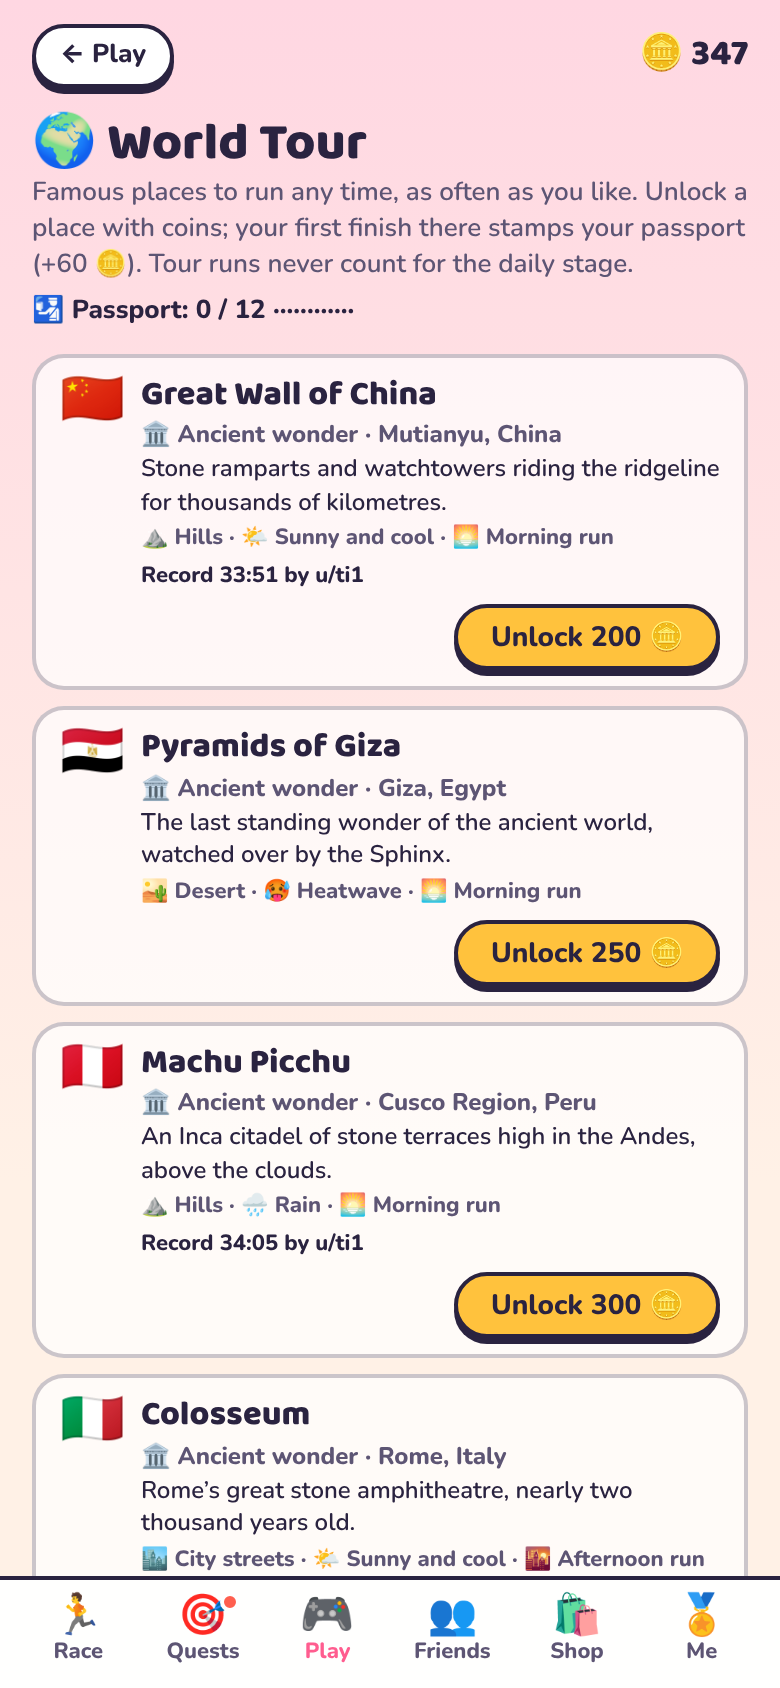
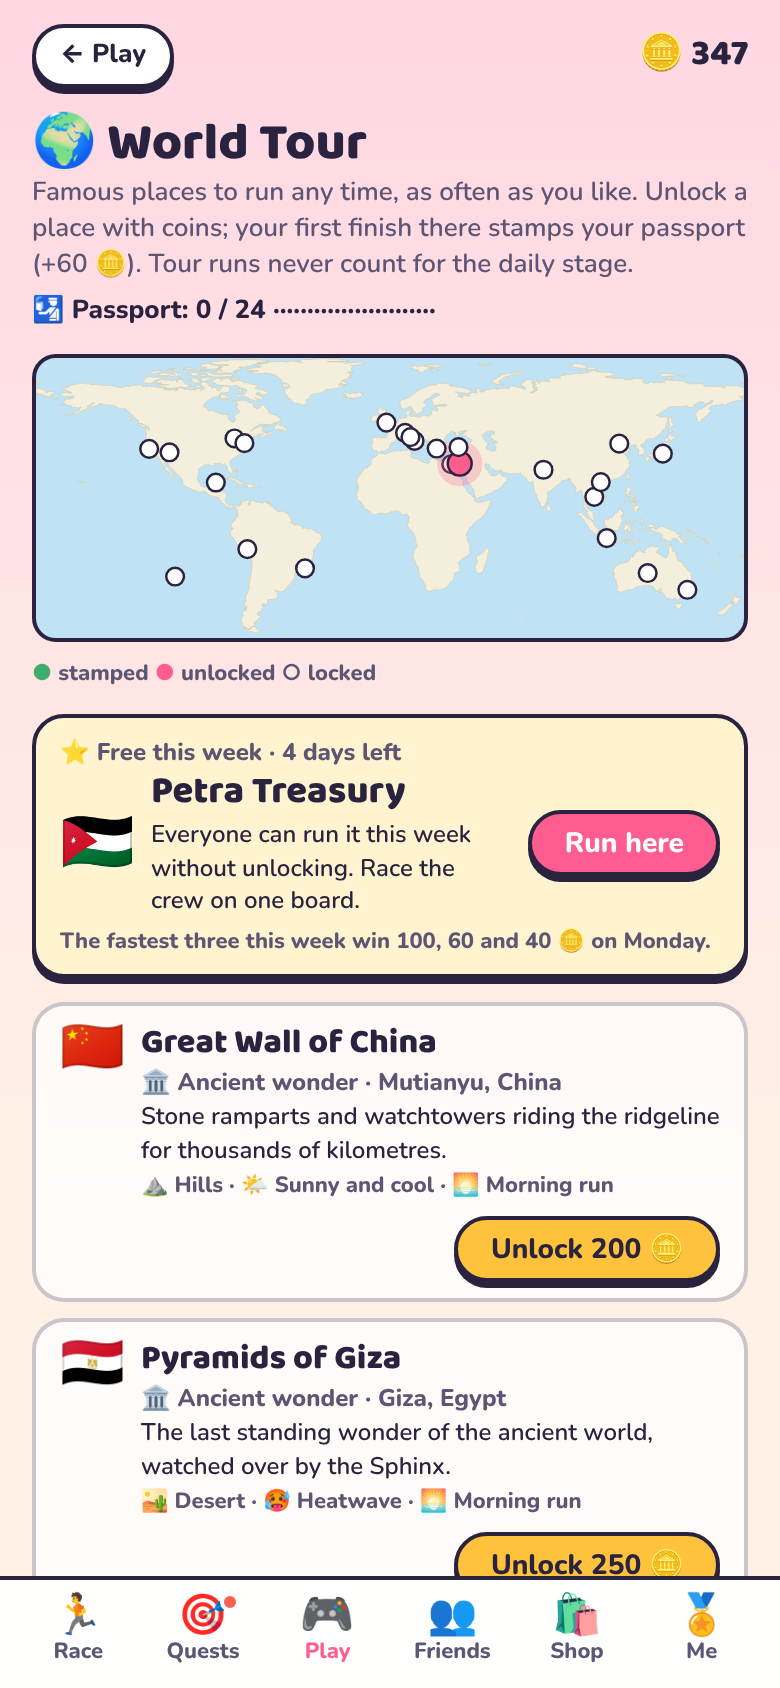
Describe challenges, the World Tour, rest days and languages for Devpost
Bring the submission text up to date with the features added since it was
written, and add gallery screenshots of the World Tour's free week and of
challenges on the feed card and the race bib.

diff --git a/docs/SUBMISSION.md b/docs/SUBMISSION.md
@@ -19,6 +19,8 @@ Everything needed to submit Running Man to
 - [ ] Open the demo post on a phone and in a desktop browser, logged in and logged out. Everything should fit in
       the post without scrolling sideways.
 - [x] Record the demo video (script below) and upload it to YouTube: https://youtu.be/CTI8BU9ABzw
+- [ ] Update the Devpost page with the text below (it now covers challenges, the free World Tour week, rest days,
+      flair and the four languages) and add screenshots 27 to 31 to the gallery.
 - [ ] Fill in the optional [developer satisfaction survey](https://forms.gle/dW45UgK6SctevE756) for the
       Feedback award.
 - [ ] Help others in r/Devvit and the Devvit Discord during the hackathon (Devvit Helper award).
@@ -29,8 +31,8 @@ Everything needed to submit Running Man to
 
 **Elevator pitch (under 200 characters):**
 
-> A daily 6 km chibi marathon through Tokyo, Paris, Hanoi, Dubai and the Amazon. Plan your pace, grab snacks, dodge cones and
-> today's real runners. Crash into one and you both fall.
+> A daily 6 km chibi marathon through Tokyo, Paris, Hanoi, Dubai and the Amazon. Plan your pace, dodge today's real
+> runners, challenge a friend to beat your time.
 
 **Links:**
 
@@ -86,6 +88,27 @@ The result is a race bib: your rank among today's runners, your time and splits,
 earned. One tap shares it to the comments, where the pinned strategy thread is already arguing about where to push.
 You can send one cheer a day to another runner, and once a week you vote on which city the crew should get next.
 
+Then you can **challenge** up to three redditors to beat your time. The app comments in today's post as you
+("🏁 u/bob, I challenge you! I ran Meiji Forest in 18:20"), so Reddit notifies them with a mention. When they open
+the post, the feed card itself says who challenged them and the time to beat, with a "Take the challenge" button.
+Beating it pays 30 coins, and when they finish the app replies with the outcome and mentions the challenger back, so
+one run pulls in the next.
+
+Before you race, the plan screen shows where you are: a world map with this week's city, a real map of the city with
+the week's seven stages pinned at their landmarks, and today's 6 km as a course map coloured by grade, with the water
+stops, boosters and how many obstacles and snacks each kilometre holds.
+
+For players who want more than one run a day, the **World Tour** has 24 famous places outside the calendar: the
+Great Wall, the Pyramids of Giza, Machu Picchu, the Colosseum, the Taj Mahal, Angkor Wat, Petra, Ha Long Bay, the
+Grand Canyon, Mount Fuji, the Statue of Liberty and more, each with its own low-poly 3D wonder, terrain and real map.
+Unlock a place with coins and run it as often as you like against the best runs there as ghosts; your first finish
+stamps your passport. One place is free for everyone each week, with its own board, and its three fastest runners
+win coins when the week ends; Monday's recap names them.
+
+Streaks matter, so the shop sells **rest days**: hold up to two, and a missed day uses one up on its own so the streak
+carries on. Every runner wears a live **user flair** in the subreddit ("🏃 #0019 · 12 stages · 🛂 3 · 🏅 Tokyo
+Finisher").
+
 Everything has sound, all synthesised in the browser: footsteps that follow your pace, the crowd in town, waves on the
 beach, wind in the desert, a bonk for a cone, a chime for cake, a thud when two runners go down, and a fanfare at the
 finish. Phones buzz on a crash.
@@ -104,12 +127,13 @@ relay. In the start corral you can call your finish time for bonus coins. The **
 (corgi, tabby cat, shiba, penguin, bunny, fox, panda) and gear for your pet: a bandana, a bow, a tiny crown. Every
 name in the game shows the player's own Reddit avatar. Nothing you buy changes race times. **Me** shows your run
 calendar, your best time in each city, fourteen achievements that pay coins, and comfort options (calm motion,
-bigger buttons, one-thumb steering).
+bigger buttons, one-thumb steering, language). The whole game is in English, Spanish, Brazilian Portuguese and
+Vietnamese and follows the phone's language; public posts stay in English.
 
 The subreddit runs itself: each day's stage is pinned at the top, the app posts a recap under yesterday's stage (the
 podium, the most crashes, the most shouted line), and a celebration post when the crew finishes a city. In December
 it snows on every stage, December runners earn Santa hats, and Christmas Day is the Christmas Run with double coins.
-Moderators can switch quick chat, road life, pinning, recaps and app posts off in the app settings.
+Moderators can switch quick chat, road life, pinning, recaps, app posts and runner flair off in the app settings.
 
 **How we built it**
 
@@ -131,8 +155,9 @@ Moderators can switch quick chat, road life, pinning, recaps and app posts off i
   every runner wears a live user flair (bib, stages run, passport stamps, latest finished city), and Devvit Journeys track start, plan, finish and every interaction.
 - A local harness runs the real API with an in-memory Redis and a browser mock of the client SDK, so the whole game
   can be played and tested without Reddit: 125 unit tests and a 55-check Playwright run cover the full loop.
-- three.js loads as its own chunk in idle time (the first screen needs about 100 KB gzipped), and the race drops to a
-  lower resolution, then no shadows, when a phone's frame rate falls.
+- three.js loads as its own chunk in idle time (the feed card needs about 80 KB gzipped; each translation loads only
+  on phones that use it), and the race drops to a lower resolution, then no shadows, when a phone's frame rate falls.
+- Real maps are built from Natural Earth data at build time into small SVG paths, so they cost no requests.
 
 **Challenges we ran into**
 
@@ -159,12 +184,14 @@ minutes but still gives the comments something to argue about.
 **What we learned**
 
 Daily games live or die by the reason to come back tomorrow. A personal streak alone is not enough; a shared goal
-that only the community can finish works better.
+that only the community can finish works better, and on Reddit the strongest pull is another person: a mention from
+someone who just beat your time.
 
 **What's next for Running Man**
 
-Building the cities the crew votes for (London, New York, Seoul, Rio), mountain trail and snow stages, weekly "half marathon" weekend specials,
-sub-communities racing as clubs, and premium cosmetics through Reddit's payments once eligible.
+Building the cities the crew votes for (London, New York, Seoul, Rio), mountain trail and snow stages, weekly "half
+marathon" weekend specials, sub-communities racing as clubs, more languages, and premium cosmetics through Reddit's
+payments once eligible.
 
 ## 3. Demo video script (about 2 minutes)
 
@@ -223,6 +250,11 @@ In `docs/screenshots/` (portrait, 2x):
 24. `24-first-race-coach.png`: the first-race coach
 25. `25-amazon-stilt-village.png`: stilt houses on an Amazon rainforest stage
 26. `26-amazon-canopy.png`: the canopy walkway in the rainforest
+27. `27-world-tour.png`: the World Tour with its world map and this week's free place
+28. `28-world-tour-giza.png`: running past the Pyramids of Giza
+29. `29-route-map.png`: the real world and city maps and today's course map
+30. `30-challenge-feed-card.png`: a challenge waiting on the feed card
+31. `31-challenge-a-friend.png`: challenging a friend from the race bib
 
 Devpost shows the first image as the thumbnail: use `03-race-tokyo.png` or `10-quick-chat.png`.
 
